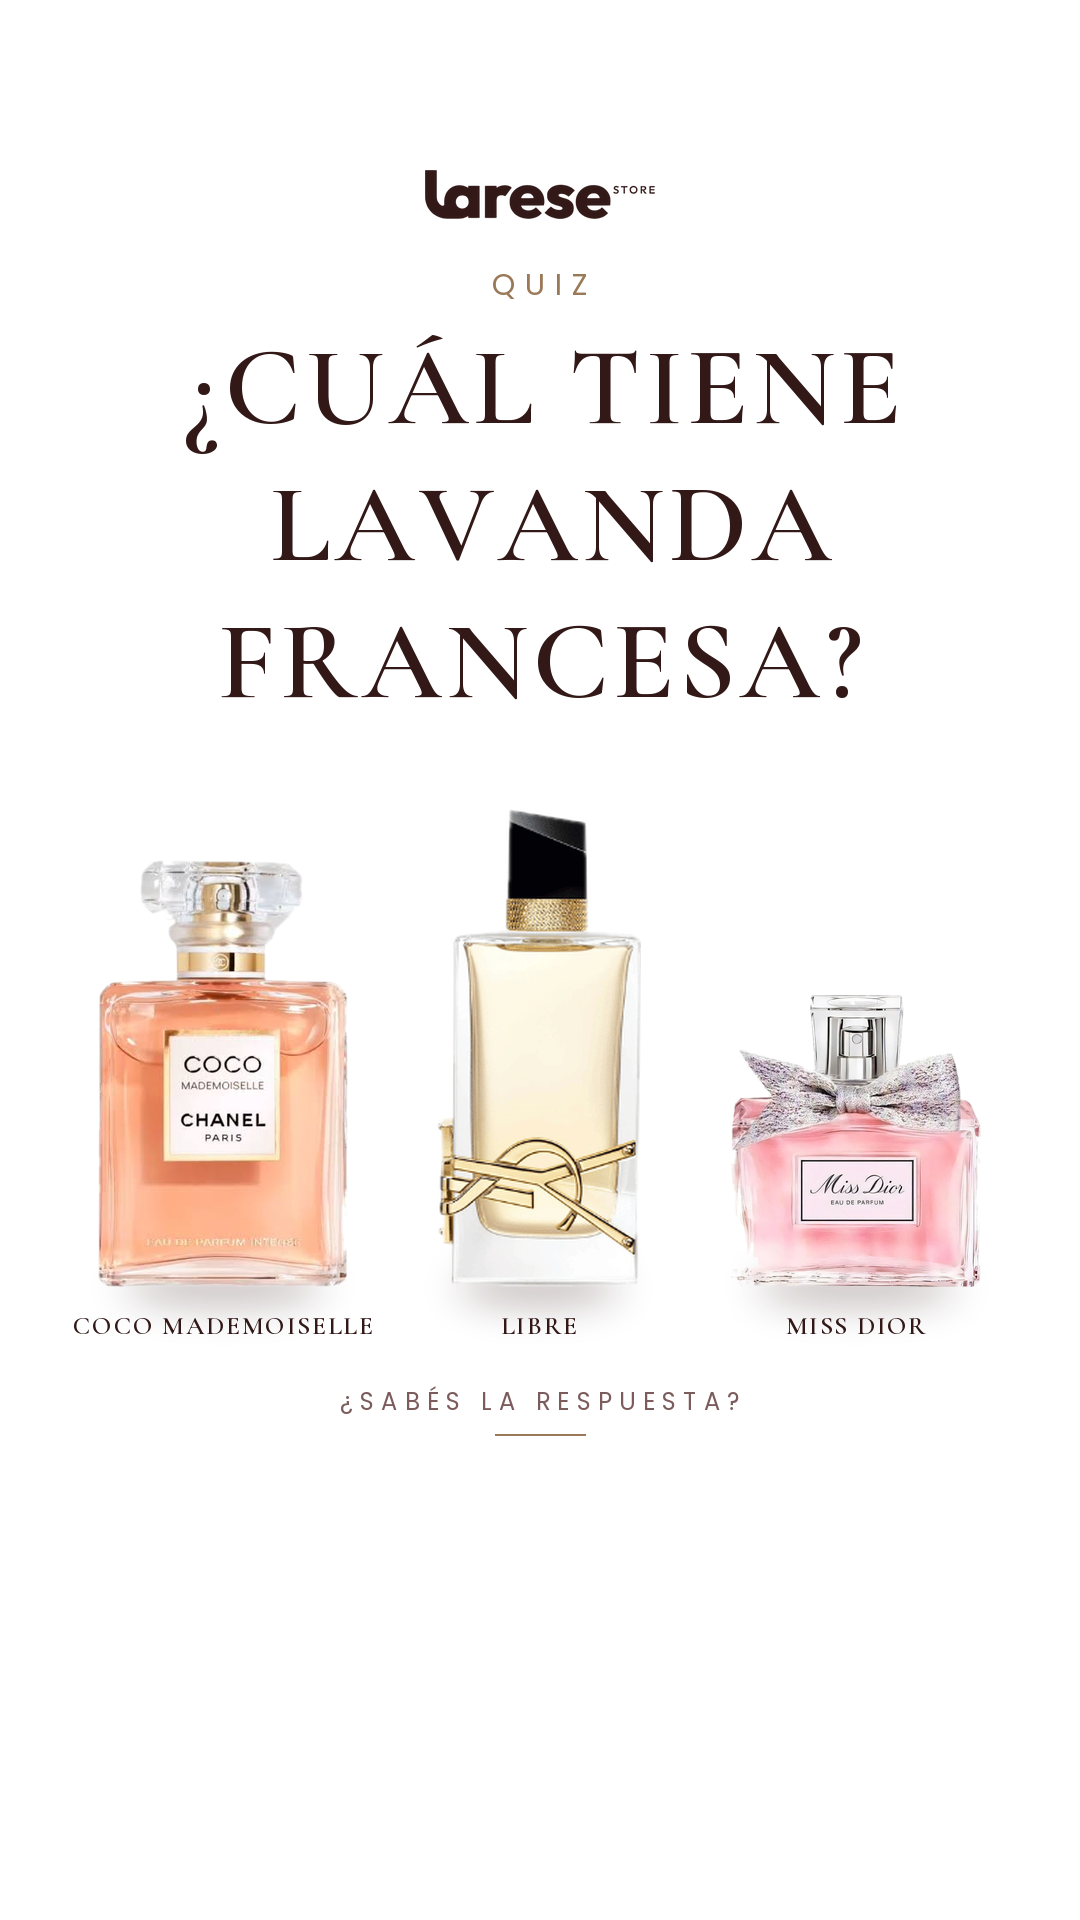
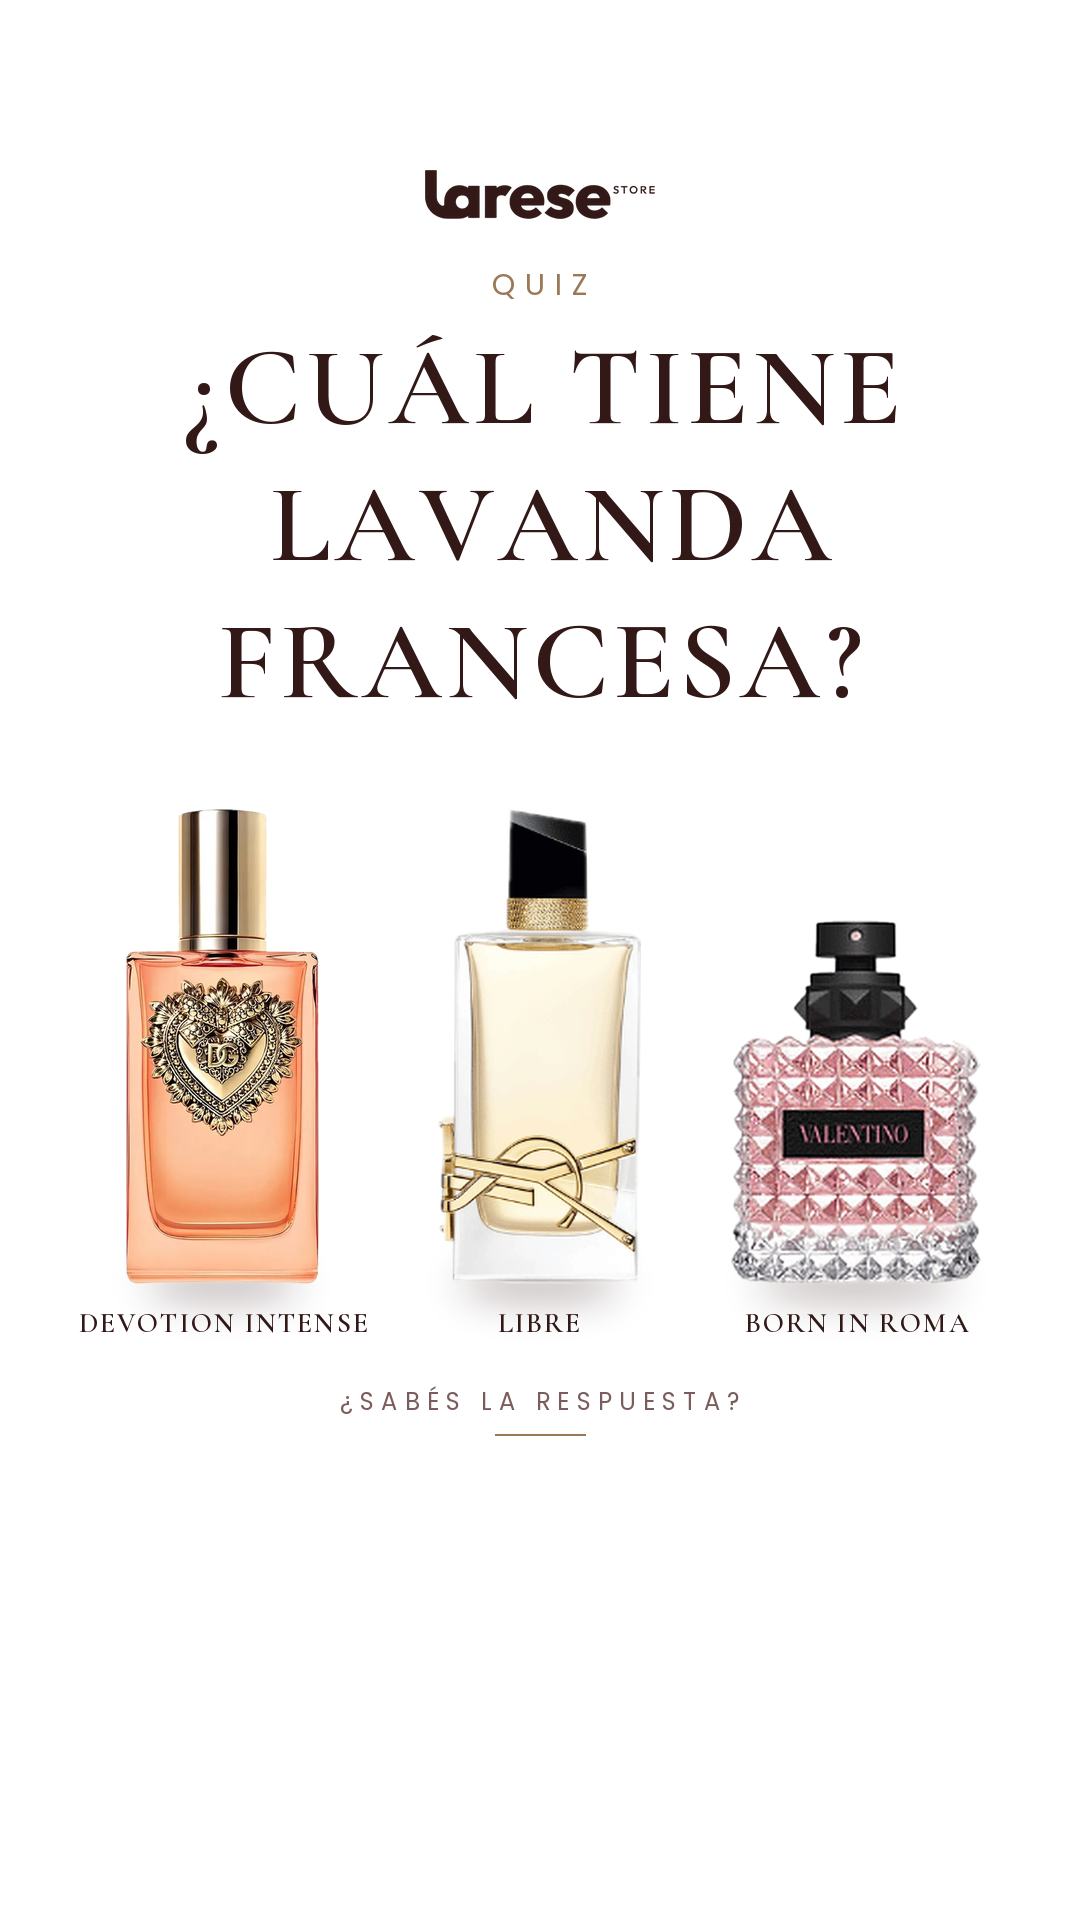
Add Devotion Intense, Born in Roma and Divine to reactivation pieces
Claude-Session: https://claude.ai/code/session_01DnzkNLNRMQwg2m6kV176mp

diff --git a/revivir-cuenta/PLAN.md b/revivir-cuenta/PLAN.md
@@ -2,7 +2,7 @@
 
 **Del lunes 16 al domingo 29 de noviembre.** Termina justo con Black Friday (viernes 27), cuando la cuenta ya va a estar "despierta" y llegando a más gente.
 
-Las piezas están en `piezas/`. Las historias con encuesta, quiz o preguntas tienen un **espacio libre abajo para el sticker**: subí la imagen, agregá el sticker desde Instagram y ponelo en ese espacio.
+Las piezas están en `piezas/`. Perfumes: YSL Libre, Coco Mademoiselle, Miss Dior, Devotion Intense, Born in Roma y Divine. Las historias con encuesta, quiz o preguntas tienen un **espacio libre abajo para el sticker**: subí la imagen, agregá el sticker desde Instagram y ponelo en ese espacio.
 
 ---
 
@@ -21,8 +21,8 @@ Las piezas están en `piezas/`. Las historias con encuesta, quiz o preguntas tie
 | Día | Historias (además de las de producto que ya subís) | Feed / Reel |
 |---|---|---|
 | **Lun 16** | `h07-notificaciones` · `h01-libre-o-coco` (sticker **Encuesta**: "Libre" / "Coco Mademoiselle") | Reel 1 con `portada-reel-3-perfumes` |
-| **Mar 17** | Resultado de ayer ("Ganó Libre 🤍") + cómo huele el ganador · `h05-slider-florales` (sticker **Slider** con 🌸) | — |
-| **Mié 18** | `h02-miss-dior-o-libre` (sticker **Encuesta**: "Miss Dior" / "Libre") | Post `post-comenta-perfume` |
+| **Mar 17** | Resultado de ayer ("Ganó Libre 🤍") + cómo huele el ganador · `h05-slider-dulces` (sticker **Slider** con 🍯) | — |
+| **Mié 18** | `h02-miss-dior-o-born-in-roma` (sticker **Encuesta**: "Miss Dior" / "Born in Roma") | Post `post-comenta-perfume` |
 | **Jue 19** | `h04-quiz-lavanda` (sticker **Quiz**, ver respuesta abajo) · al otro día subí la respuesta | — |
 | **Vie 20** | `h06-preguntas` (sticker **Preguntas**) | Reel 2 |
 | **Sáb 21** | Respondé las preguntas de ayer, una por historia (compartí la pregunta y contestá con foto del perfume) | — |
@@ -32,7 +32,7 @@ Las piezas están en `piezas/`. Las historias con encuesta, quiz o preguntas tie
 
 | Día | Historias | Feed / Reel |
 |---|---|---|
-| **Lun 23** | `h03-coco-o-miss-dior` (sticker **Encuesta**: "Coco Mademoiselle" / "Miss Dior") | Reel 3 |
+| **Lun 23** | `h03-devotion-o-divine` (sticker **Encuesta**: "Devotion Intense" / "Divine") | Reel 3 |
 | **Mar 24** | Detrás de escena: armando pedidos, el paquete, el envío. Sticker **Encuesta**: "¿Ya pediste alguna vez? Sí / Todavía no" | — |
 | **Mié 25** | Repetí el quiz con otra pregunta o volvé a subir `h01` | Post de un producto (con la skill de anuncios) |
 | **Jue 26** | Sticker **Cuenta regresiva** "Black Friday" *(solo si vas a hacer promo)* | Reel 4 |
@@ -46,10 +46,10 @@ Las piezas están en `piezas/`. Las historias con encuesta, quiz o preguntas tie
 
 ## Stickers y textos listos
 
-**Quiz (`h04`):** opciones "Coco Mademoiselle", "Libre", "Miss Dior". Correcta: **Libre**.
+**Quiz (`h04`):** opciones "Devotion Intense", "Libre", "Born in Roma". Correcta: **Libre**.
 Historia del día siguiente: *"La respuesta era Libre de YSL ✨ Lavanda francesa con flor de azahar y un fondo de vainilla: floral, elegante y con carácter. ¿Querés probarlo? Escribinos."*
 
-**Slider (`h05`):** emoji 🌸. A quien lo deslice al máximo, mandale por DM una recomendación floral (Miss Dior o Libre).
+**Slider (`h05`):** emoji 🍯. A quien lo deslice al máximo, mandale por DM una recomendación dulce (Devotion Intense, Born in Roma o Divine).
 
 **Preguntas (`h06`):** texto del sticker: *"Contame tu estilo o qué perfumes te gustan"*.
 
@@ -97,7 +97,7 @@ Importante: **contestá a cada comentario** ("¡Te escribimos! 🤍") y mandá e
 | **1. 3 perfumes que todas te van a preguntar** (portada `portada-reel-3-perfumes`) | Libre, Coco Mademoiselle y Miss Dior, uno por uno, 3 segundos cada uno, con una mano que los levanta | Nombre + "floral con lavanda", "elegante", "romántico" |
 | **2. Decant vs. frasco** | El frasco grande y al lado el decant. Rociás los dos | "Mismo perfume original. Probalo antes de comprar el frasco" |
 | **3. Armando un pedido** | Manos envolviendo el paquete, el sticker de la tienda, la bolsa cerrada | "Así llega tu pedido 📦 Envíos a todo Paraguay" |
-| **4. ¿Qué perfume sos según tu plan del finde?** | Cortes rápidos: "oficina" → Libre, "brunch" → Miss Dior, "salida de noche" → Coco Mademoiselle Intense | El plan y el perfume |
+| **4. ¿Qué perfume sos según tu plan del finde?** | Cortes rápidos: "oficina" → Libre, "brunch" → Miss Dior, "cena" → Born in Roma, "salida de noche" → Devotion Intense o Divine | El plan y el perfume |
 
 Audio: uno que esté en tendencia, lento y elegante. Si me mandás los videos, te los edito con subtítulos, zooms y títulos.
 
